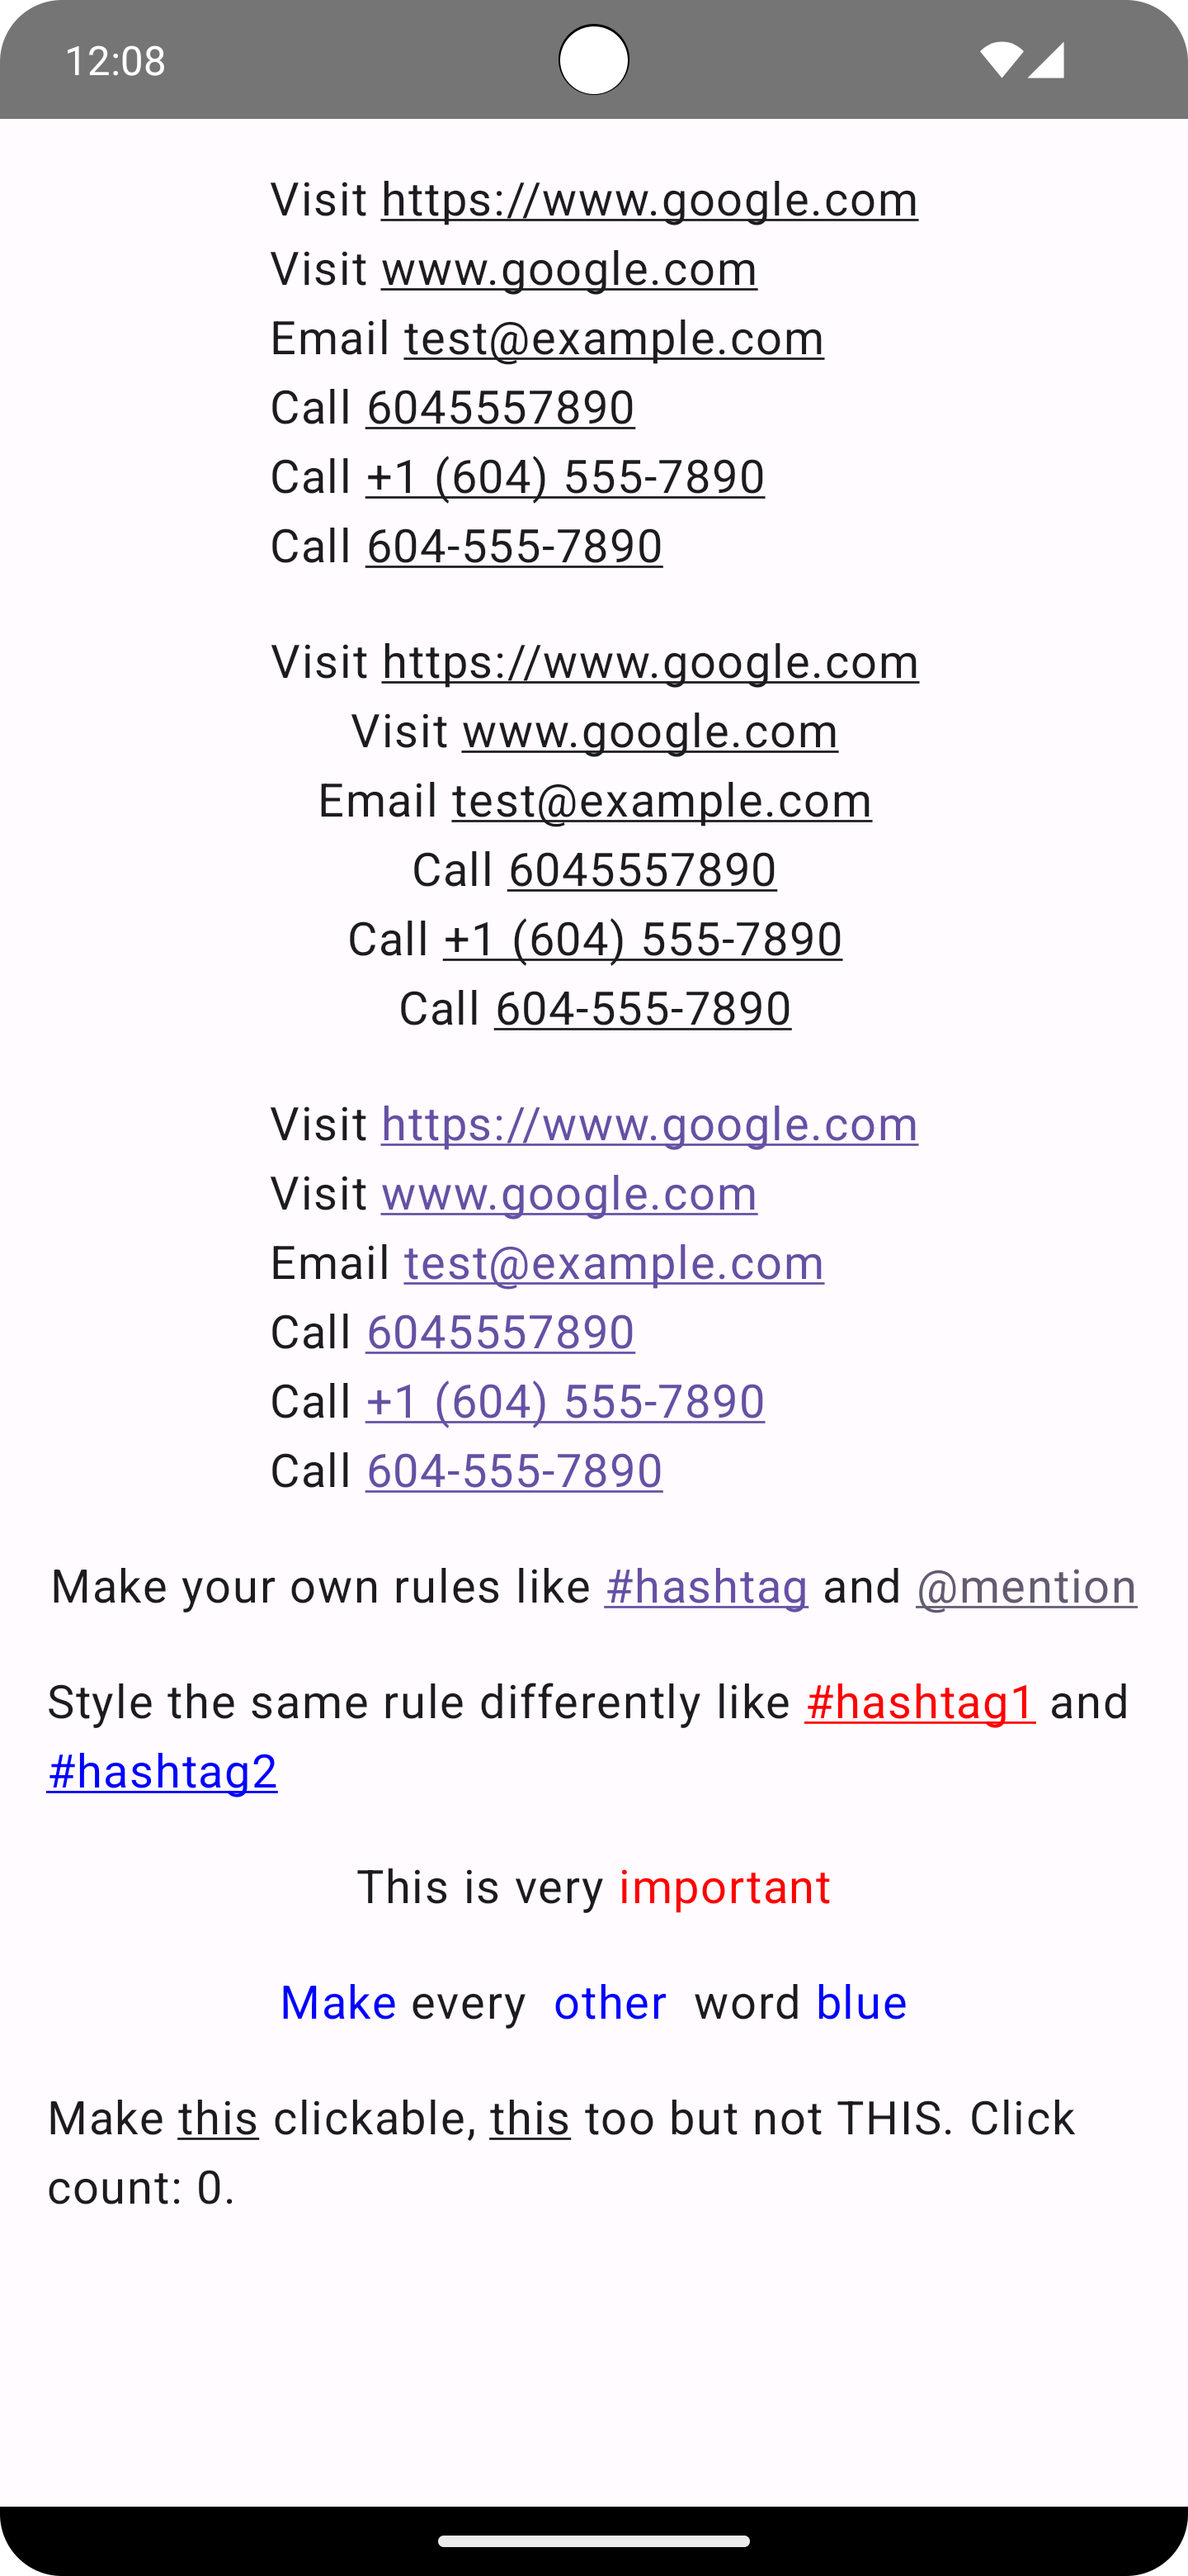
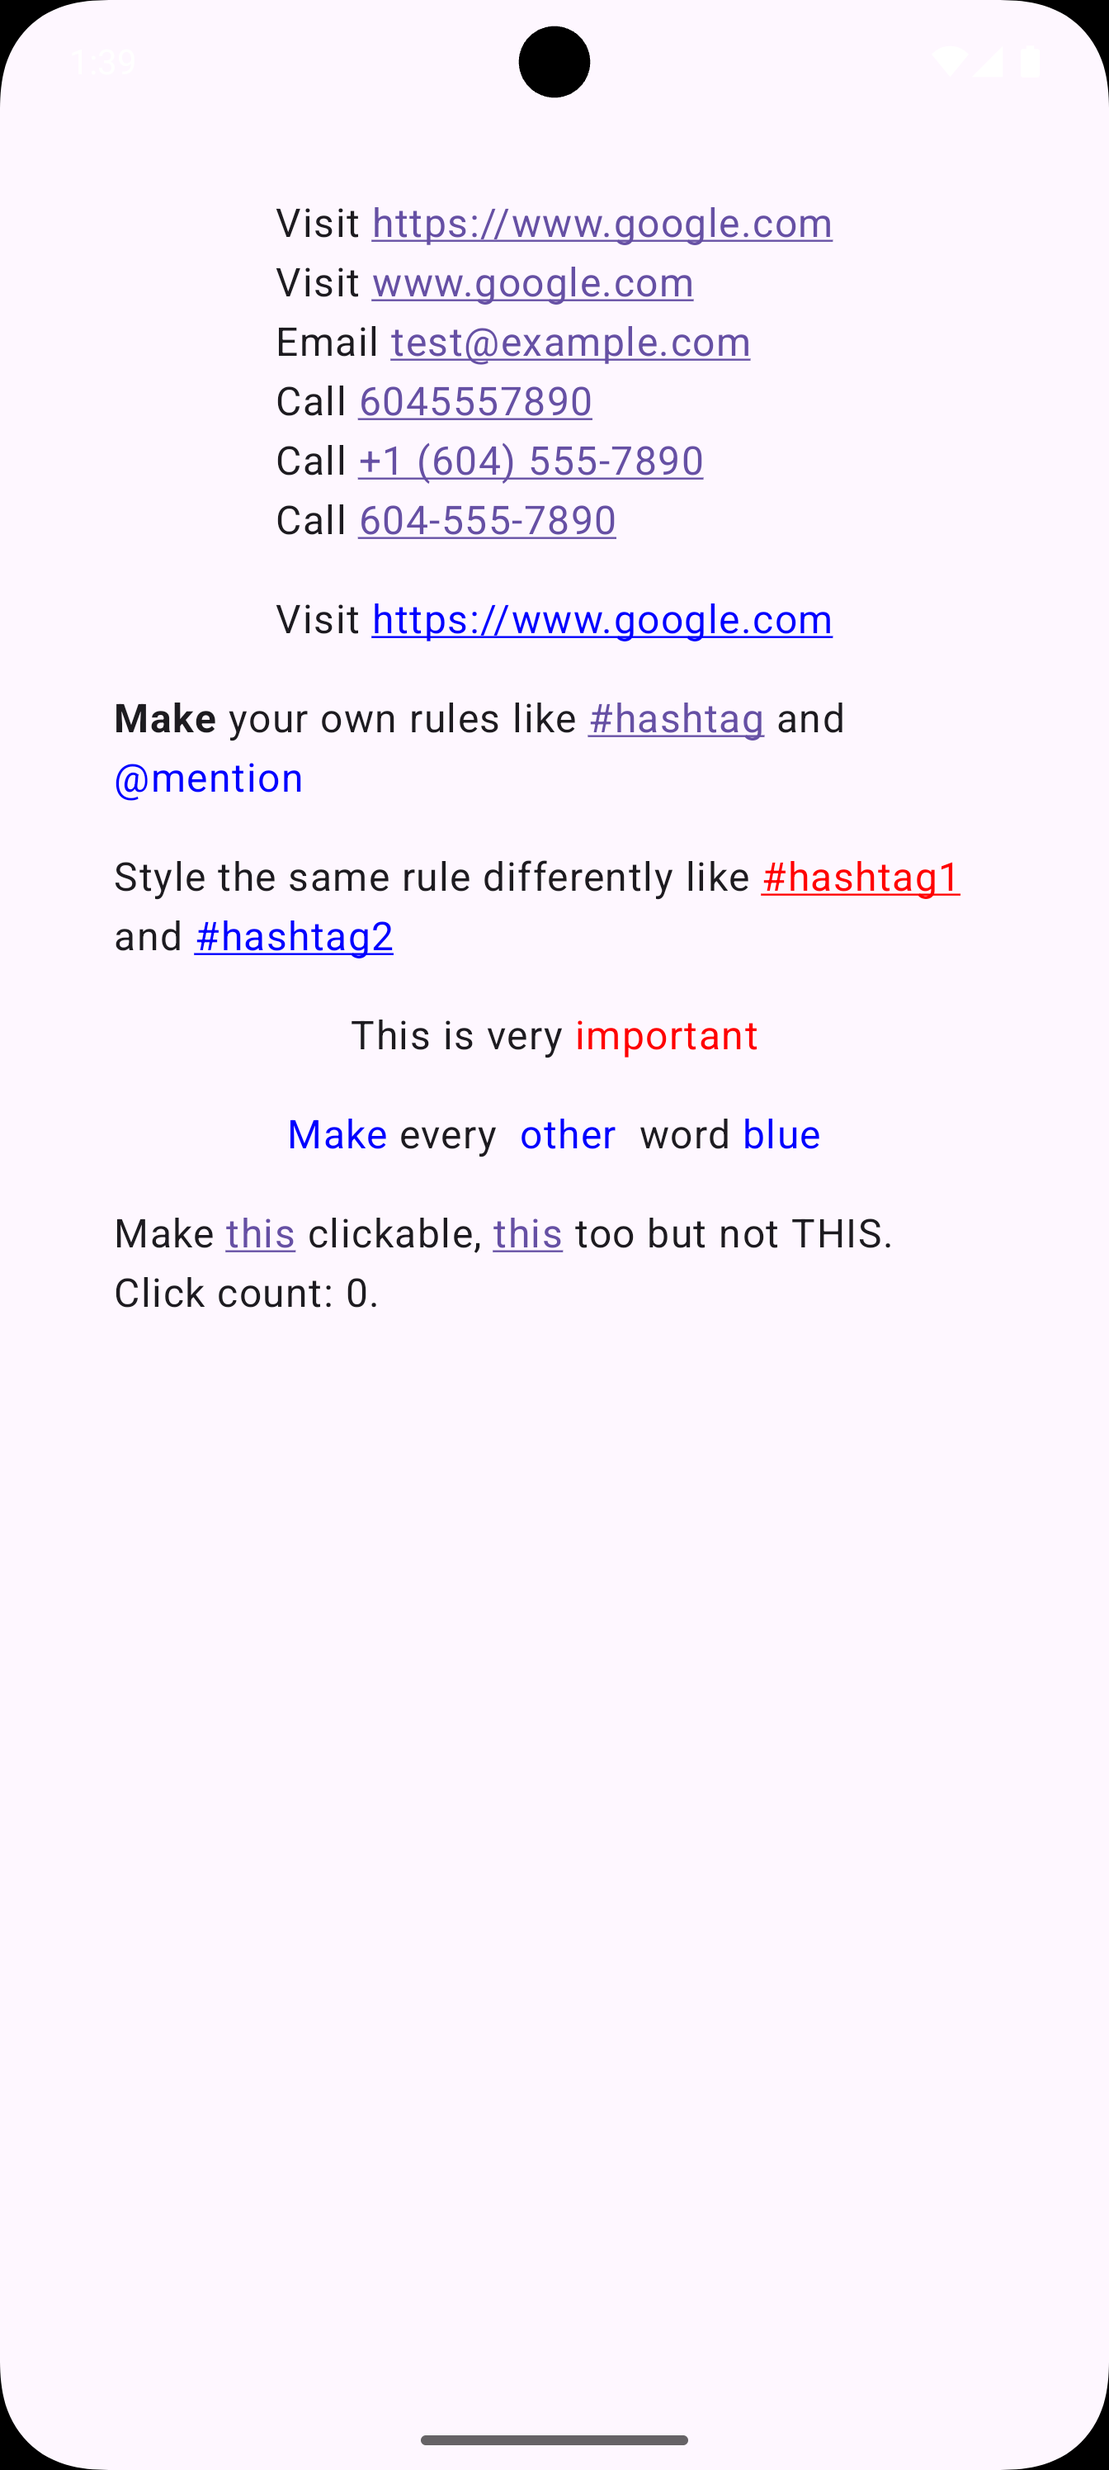
update README

diff --git a/README.md b/README.md
@@ -2,6 +2,8 @@
 
 AutoLinkText is a simple library that makes links, emails, and phone numbers clickable in text in Jetpack Compose and Kotlin Compose Multiplatform.
 
+The latest demo app APK can be found in the [releases](https://github.com/Calvin-LL/AutoLinkText/releases) section under the "Assets" section of the latest release.
+
 ## Motivation
 
 [`TextView`](https://developer.android.com/reference/android/widget/TextView) has [`autoLink`](https://developer.android.com/reference/android/widget/TextView#attr_android:autoLink) and [`Linkify`](https://developer.android.com/reference/android/text/util/Linkify) but Compose doesn't have an equivalent. This library aims to fill that gap.
@@ -20,7 +22,7 @@ AutoLinkText is a simple library that makes links, emails, and phone numbers cli
 - Create custom matchers for your own patterns (e.g. hashtags, mentions, etc.)
 - Customizable styling for links
 - Customizable click listeners for links
-- Supports Compose Multiplatform (Android, iOS, Desktop/JVM, Wasm)
+- Supports Compose Multiplatform (Android, iOS, Desktop/JVM, Wasm, JS)
 
 ## Usage
 
@@ -72,133 +74,139 @@ See [demo app code](demoApp/composeApp/src/commonMain/kotlin/sh/calvin/autolinkt
 
 #### Basic Usage
 
-By default `AutoLinkText` turns URLs, emails, and phone numbers into clickable links and underlines them.
+<picture><source media="(prefers-color-scheme: dark)" srcset="assets/basic-dark.png"><img alt="" src="assets/basic-light.png"></picture>
+
+By default `AutoLinkText` turns URLs, emails, and phone numbers into clickable links, set the color to `MaterialTheme.colorScheme.primary`, and underline the links.
 
 ```kotlin
-AutoLinkText(
-    text = """
+Text(
+    AnnotatedString.rememberAutoLinkText(
+        """
         |Visit https://www.google.com
         |Visit www.google.com
         |Email test@example.com
         |Call 6045557890
         |Call +1 (604) 555-7890
         |Call 604-555-7890
-    """.trimMargin(),
-    style = LocalTextStyle.current.copy(
-        color = LocalContentColor.current,
-    ),
+        """.trimMargin()
+    )
 )
 ```
 
 #### Customize Link Color
 
-You can override the default styling by mapping over the default list of rules and changing the `style` in each default rule.
+<picture><source media="(prefers-color-scheme: dark)" srcset="assets/custom-color-dark.png"><img alt="" src="assets/custom-color-light.png"></picture>
+
+You can override the default styling by providing a `TextLinkStyles` object.
 
 ```kotlin
-AutoLinkText(
-    text = "...",
-    style = LocalTextStyle.current.copy(
-        color = LocalContentColor.current,
-    ),
-    textRules = TextRuleDefaults.defaultList().map {
-        it.copy(
-            style = SpanStyle(
-                color = MaterialTheme.colorScheme.primary,
+Text(
+    AnnotatedString.rememberAutoLinkText(
+        "...",
+        defaultLinkStyles = TextLinkStyles(
+            SpanStyle(
+                color = Color.Blue,
                 textDecoration = TextDecoration.Underline
             )
         )
-    }
+    )
 )
 ```
 
 #### Make Your Own Rules
 
-Create your own rules by providing `TextRule`s with a `TextMatcher`, an optional `MatchStyle` for the matched text and an optional `onClick` lambda.
+<picture><source media="(prefers-color-scheme: dark)" srcset="assets/make-rule-dark.png"><img alt="" src="assets/make-rule-light.png"></picture>
+
+There are 3 types of `TextRule`s: `Url`, `Clickable`, and `Styleable`.
+
+- `Url` turns matched text into a clickable link, and when clicked, opens the URL.
+- `Clickable` turns matched text into a clickable link, and when clicked, calls the `onClick` lambda.
+- `Styleable` applies a `SpanStyle` to the matched text.
 
 ```kotlin
-AutoLinkText(
-    text = "Make your own rules like #hashtag and @mention",
-    style = LocalTextStyle.current.copy(
-        color = LocalContentColor.current,
-    ),
-    textRules = listOf(
-        TextRule(
-            textMatcher = TextMatcher.RegexMatcher(Regex("#\\w+")),
-            style = SpanStyle(
-                color = MaterialTheme.colorScheme.primary,
-                textDecoration = TextDecoration.Underline
+Text(
+    AnnotatedString.rememberAutoLinkText(
+        "Make your own rules like #hashtag and @mention",
+        textRules = listOf(
+            TextRule.Styleable(
+                textMatcher = TextMatcher.StringMatcher("Make"),
+                style = SpanStyle(fontWeight = FontWeight.Bold)
             ),
-            onClick = {
-                println("Hashtag ${it.matchedText} clicked")
-            },
-            annotationProvider = { "https://link.to.hashtag" },
-        ),
-        TextRule(
-            textMatcher = TextMatcher.RegexMatcher(Regex("@\\w+")),
-            style = SpanStyle(
-                color = MaterialTheme.colorScheme.secondary,
-                textDecoration = TextDecoration.Underline
+            TextRule.Clickable(
+                textMatcher = TextMatcher.RegexMatcher(Regex("#\\w+")),
+                onClick = {
+                    println("Hashtag ${it.matchedText} clicked")
+                },
             ),
-            onClick = {
-                println("Mention ${it.matchedText} clicked")
-            },
-            annotationProvider = { "https://link.to.mentions" },
+            TextRule.Url(
+                textMatcher = TextMatcher.RegexMatcher(Regex("@\\w+")),
+                styles = TextLinkStyles(
+                    SpanStyle(
+                        color = Color.Blue
+                    )
+                ),
+                urlProvider = { "https://twitter.com/${it.matchedText}" }
+            )
         )
     )
 )
 ```
 
-#### Match Dependent Styling
+#### Different Styles for Different Matches
 
-Use `styleProvider` to provide a `SpanStyle` based on the matched text.
+<picture><source media="(prefers-color-scheme: dark)" srcset="assets/different-style-dark.png"><img alt="" src="assets/different-style-light.png"></picture>
+
+Provide a `stylesProvider` lambda that returns a `TextLinkStyles` object based on the matched text.
 
 ```kotlin
-AutoLinkText(
-    text = "Style the same rule differently like #hashtag1 and #hashtag2",
-    style = LocalTextStyle.current.copy(
-        color = LocalContentColor.current,
-    ),
-    textRules = listOf(
-        TextRule(
-            textMatcher = TextMatcher.RegexMatcher(Regex("#\\w+")),
-            styleProvider = {
-                val hashtag = it.matchedText
-                if (hashtag == "#hashtag1") {
-                    SpanStyle(
-                        color = Color.Red,
-                        textDecoration = TextDecoration.Underline
-                    )
-                } else {
-                    SpanStyle(
-                        color = Color.Blue,
-                        textDecoration = TextDecoration.Underline
-                    )
-                }
-            },
-            onClick = {
-                println("Hashtag ${it.matchedText} clicked")
-            },
-            annotationProvider = { "https://link.to.hashtag" },
-        ),
+Text(
+    AnnotatedString.rememberAutoLinkText(
+        "Style the same rule differently like #hashtag1 and #hashtag2",
+        textRules = listOf(
+            TextRule.Clickable(
+                textMatcher = TextMatcher.RegexMatcher(Regex("#\\w+")),
+                stylesProvider = {
+                    val hashtag = it.matchedText
+                    if (hashtag == "#hashtag1") {
+                        TextLinkStyles(
+                            SpanStyle(
+                                color = Color.Red,
+                                textDecoration = TextDecoration.Underline
+                            )
+                        )
+                    } else {
+                        TextLinkStyles(
+                            SpanStyle(
+                                color = Color.Blue,
+                                textDecoration = TextDecoration.Underline
+                            )
+                        )
+                    }
+                },
+                onClick = {
+                    println("Hashtag ${it.matchedText} clicked")
+                },
+            ),
+        )
     )
 )
 ```
 
-#### `TextRule`s don't have to be Clickable
+#### `TextRule`s don't have to be clickable
 
-You can create `TextRule`s that are not clickable by not providing an `onClick` lambda.
+<picture><source media="(prefers-color-scheme: dark)" srcset="assets/not-clickable-dark.png"><img alt="" src="assets/not-clickable-light.png"></picture>
+
+You can create `TextRule`s that are not clickable by using `TextRule.Styleable`.
 
 ```kotlin
-AutoLinkText(
-    text = "This is very important",
-    style = LocalTextStyle.current.copy(
-        color = LocalContentColor.current,
-    ),
-    textRules = listOf(
-        TextRule(
-            textMatcher = TextMatcher.StringMatcher("important"),
-            style = SpanStyle(color = Color.Red),
-            annotationProvider = { null },
+Text(
+    AnnotatedString.rememberAutoLinkText(
+        "This is very important",
+        textRules = listOf(
+            TextRule.Styleable(
+                textMatcher = TextMatcher.StringMatcher("important"),
+                style = SpanStyle(color = Color.Red),
+            )
         ),
     )
 )
@@ -206,49 +214,47 @@ AutoLinkText(
 
 #### Make Your Own Matcher
 
+<picture><source media="(prefers-color-scheme: dark)" srcset="assets/make-matcher-dark.png"><img alt="" src="assets/make-matcher-light.png"></picture>
+
 Create your own matchers with `TextMatcher.FunctionMatcher` that takes the given text and returns a list of `SimpleTextMatchResult`s.
 
 ```kotlin
-AutoLinkText(
-    text = "Make every  other  word blue",
-    style = LocalTextStyle.current.copy(
-        color = LocalContentColor.current,
-    ),
-    textRules = listOf(
-        TextRule(
-            textMatcher = TextMatcher.FunctionMatcher {
-                val matches = mutableListOf<SimpleTextMatchResult<Nothing?>>()
-                var currentWordStart = 0
-                "$it ".forEachIndexed { index, char ->
-                    if (char.isWhitespace()) {
-                        val match = SimpleTextMatchResult(
-                            start = currentWordStart,
-                            end = index,
-                        )
-                        if (it.slice(match).isNotBlank()) {
-                            matches.add(match)
+Text(
+    AnnotatedString.rememberAutoLinkText(
+        "Make every  other  word blue",
+        textRules = listOf(
+            TextRule.Styleable(
+                textMatcher = TextMatcher.FunctionMatcher {
+                    val matches = mutableListOf<SimpleTextMatchResult<Nothing?>>()
+                    var currentWordStart = 0
+                    "$it ".forEachIndexed { index, char ->
+                        if (char.isWhitespace()) {
+                            val match = SimpleTextMatchResult(
+                                start = currentWordStart,
+                                end = index,
+                            )
+                            if (it.slice(match).isNotBlank()) {
+                                matches.add(match)
+                            }
+                            currentWordStart = index + 1
                         }
-                        currentWordStart = index + 1
                     }
-                }
-                matches.filterIndexed { index, _ ->  index % 2 == 0 }
-            },
-            style = SpanStyle(color = Color.Blue),
-            annotationProvider = { null },
+                    matches.filterIndexed { index, _ -> index % 2 == 0 }
+                },
+                style = SpanStyle(color = Color.Blue),
+            ),
         ),
     )
 )
 ```
 
-## Caveats
-
-- Google seems to be working on replacing [`ClickableText`](<https://developer.android.com/reference/kotlin/androidx/compose/foundation/text/package-summary#ClickableText(androidx.compose.ui.text.AnnotatedString,androidx.compose.ui.Modifier,androidx.compose.ui.text.TextStyle,kotlin.Boolean,androidx.compose.ui.text.style.TextOverflow,kotlin.Int,kotlin.Function1,kotlin.Function1)>) API with [`LinkAnnotation`](https://developer.android.com/reference/kotlin/androidx/compose/ui/text/LinkAnnotation) but it is not functional yet. I will try my best to keep this library up to date with the latest Compose APIs.
-- The default list of `TextRule`s are accessible. But at the moment accessibility is not great if you add `TextRule`s with onClick function that does something other than opening a link because of a bug with [`ClickableText`](<https://developer.android.com/reference/kotlin/androidx/compose/foundation/text/package-summary#ClickableText(androidx.compose.ui.text.AnnotatedString,androidx.compose.ui.Modifier,androidx.compose.ui.text.TextStyle,kotlin.Boolean,androidx.compose.ui.text.style.TextOverflow,kotlin.Int,kotlin.Function1,kotlin.Function1)>). Hopefully this gets fixed in the future (See [Google IssueTracker issue 274486643](https://issuetracker.google.com/issues/274486643)).
-
 ## API
 
 - [AutoLinkText](autolinktext/src/commonMain/kotlin/sh/calvin/autolinktext/AutoLinkText.kt)
 - [TextRule](autolinktext/src/commonMain/kotlin/sh/calvin/autolinktext/TextRule.kt)
+  - [Url](autolinktext/src/commonMain/kotlin/sh/calvin/autolinktext/TextRule.kt)
+  - [Clickable](autolinktext/src/commonMain/kotlin/sh/calvin/autolinktext/TextRule.kt)
+  - [Styleable](autolinktext/src/commonMain/kotlin/sh/calvin/autolinktext/TextRule.kt)
 - [TextRuleDefaults](autolinktext/src/commonMain/kotlin/sh/calvin/autolinktext/TextRule.kt)
   - [webUrl](autolinktext/src/commonMain/kotlin/sh/calvin/autolinktext/TextRule.kt)
   - [emailAddress](autolinktext/src/commonMain/kotlin/sh/calvin/autolinktext/TextRule.kt)
@@ -267,7 +273,7 @@ AutoLinkText(
   - [NoOp](autolinktext/src/commonMain/kotlin/sh/calvin/autolinktext/MatchFilter.kt)
   - [WebUrls](autolinktext/src/commonMain/kotlin/sh/calvin/autolinktext/MatchFilter.kt)
   - [PhoneNumber](autolinktext/src/commonMain/kotlin/sh/calvin/autolinktext/MatchFilter.kt)
-- [MatchStyleProvider](autolinktext/src/commonMain/kotlin/sh/calvin/autolinktext/MatchStyleProvider.kt)
+- [MatchStylesProvider](autolinktext/src/commonMain/kotlin/sh/calvin/autolinktext/MatchStylesProvider.kt)
 - [SimpleTextMatchResult](autolinktext/src/commonMain/kotlin/sh/calvin/autolinktext/SimpleTextMatchResult.kt)
 - [TextMatchResult](autolinktext/src/commonMain/kotlin/sh/calvin/autolinktext/TextMatchResult.kt)
 - [MatchClickHandlerDefaults](autolinktext/src/commonMain/kotlin/sh/calvin/autolinktext/MatchClickHandler.kt)
